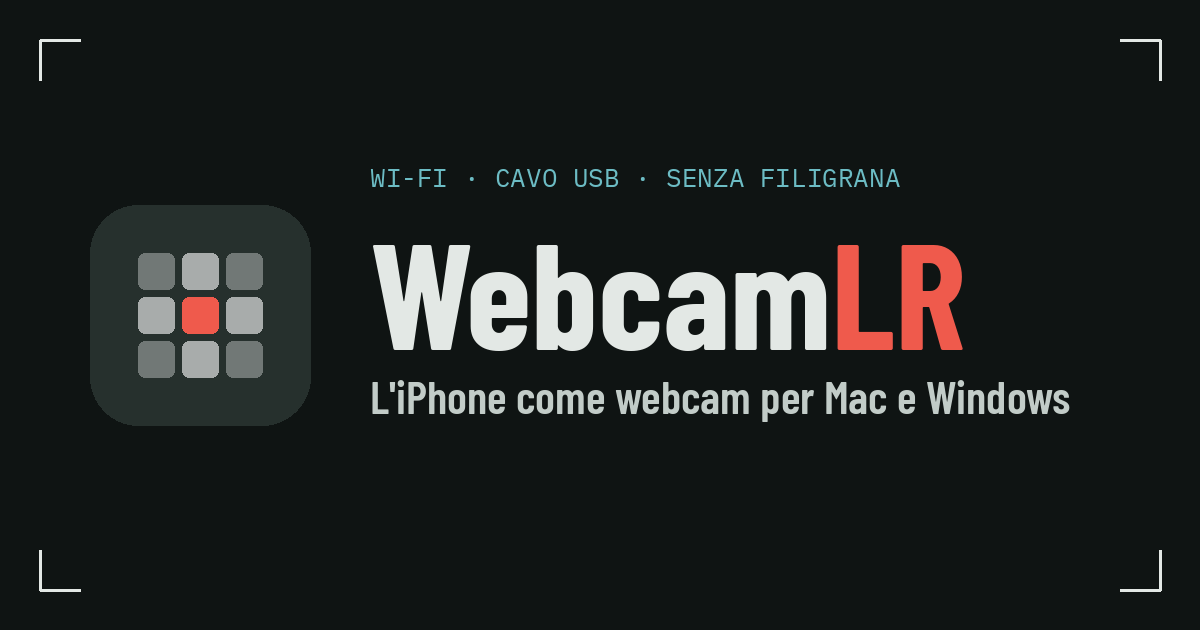
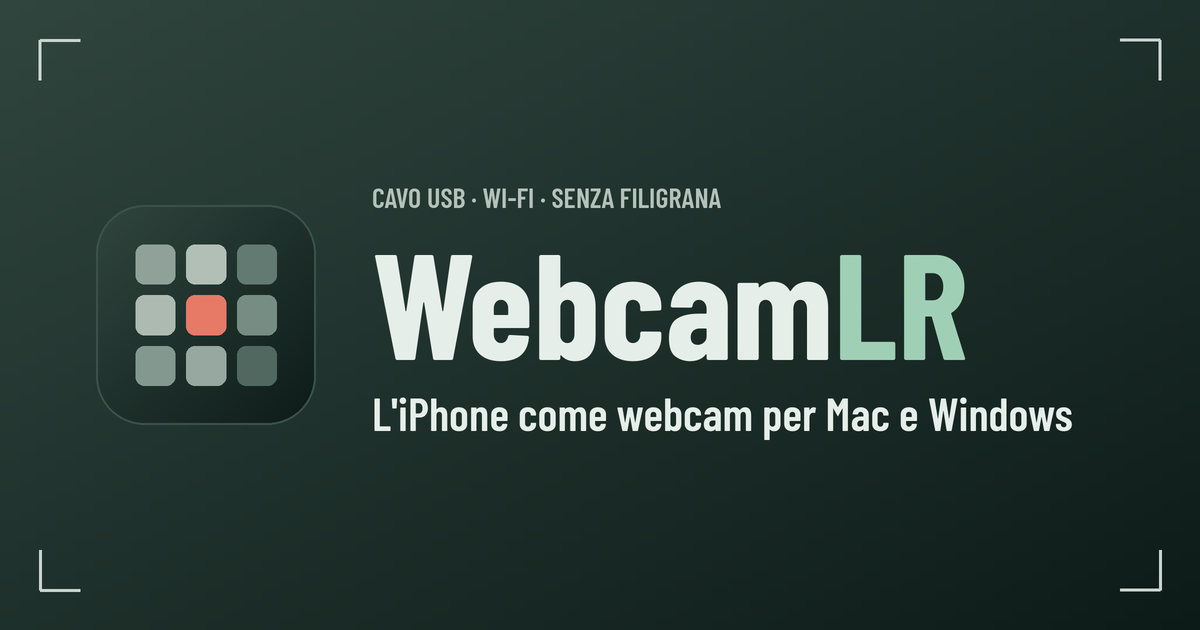
Sito: anteprima per i link e icona con l'identità nuova
Strumenti/anteprima_sito.py (Pillow) disegna anteprima.png 1200×630 e apple-touch-icon.png dal logo, con la sfumatura verde e «LR» nell'accento salvia, nei caratteri Barlow di Sito/caratteri.

Claude-Session: https://claude.ai/code/session_01F5o24Mc7i8YKa5yGj1APHx

diff --git a/Strumenti/anteprima_sito.py b/Strumenti/anteprima_sito.py
@@ -1,0 +1,88 @@
+#!/usr/bin/env python3
+"""Genera Sito/anteprima.png (Open Graph, 1200×630) e Sito/apple-touch-icon.png (180×180) con l'identità di LR Apps.
+
+Fondo con la sfumatura del logo (#30453E → #0D1B18), logo a griglia 3×3 con il centro corallo, «Webcam» quasi bianco e
+«LR» nell'accento salvia, come MarchioWebcamLR in Stile. Caratteri da Sito/caratteri (Barlow, licenza OFL).
+Uso: python3 Strumenti/anteprima_sito.py (serve Pillow).
+"""
+from pathlib import Path
+
+from PIL import Image, ImageDraw, ImageFont
+
+RADICE = Path(__file__).resolve().parent.parent
+SITO = RADICE / "Sito"
+CARATTERI = SITO / "caratteri"
+
+CHIARO = (0x30, 0x45, 0x3E)
+SCURO = (0x0D, 0x1B, 0x18)
+TESTO = (0xE6, 0xEE, 0xEA)
+TESTO_TENUE = (0xB4, 0xC2, 0xBB)
+ACCENTO = (0x9F, 0xD0, 0xB6)
+BORDO = (0x3A, 0x52, 0x4A)
+CELLE = [
+    [(0x8F, 0xA1, 0x99), (0xB2, 0xBF, 0xB7), (0x62, 0x7A, 0x71)],
+    [(0xAC, 0xBA, 0xB2), (0xE6, 0x7A, 0x67), (0x76, 0x8D, 0x84)],
+    [(0x83, 0x98, 0x8F), (0x96, 0xA8, 0x9F), (0x50, 0x68, 0x5F)],
+]
+S = 2  # sovracampionamento
+
+
+def sfumatura(w: int, h: int) -> Image.Image:
+    """Diagonale dall'angolo in alto a sinistra (chiaro) a quello in basso a destra (scuro)."""
+    piccola = Image.new("RGB", (64, 64))
+    for y in range(64):
+        for x in range(64):
+            t = (x + y) / 126
+            piccola.putpixel((x, y), tuple(round(a + (b - a) * t) for a, b in zip(CHIARO, SCURO)))
+    return piccola.resize((w, h), Image.BICUBIC)
+
+
+def logo(d: ImageDraw.ImageDraw, x: float, y: float, lato: float, fondo: bool) -> None:
+    """Il logo in unità di 100 (come Sito/logo.svg), con l'angolo in alto a sinistra in (x, y)."""
+    u = lato / 100
+    if fondo:
+        d.rounded_rectangle([x, y, x + lato, y + lato], radius=22 * u, fill=SCURO + (90,), outline=BORDO, width=max(1, round(u)))
+    for r, riga in enumerate(CELLE):
+        for c, colore in enumerate(riga):
+            cx, cy = x + (18 + 23 * c) * u, y + (18 + 23 * r) * u
+            d.rounded_rectangle([cx, cy, cx + 18 * u, cy + 18 * u], radius=4 * u, fill=colore)
+
+
+def anteprima() -> None:
+    w, h = 1200 * S, 630 * S
+    im = sfumatura(w, h).convert("RGBA")
+    d = ImageDraw.Draw(im, "RGBA")
+    # Gli angoli del mirino
+    m, l, sp = 40 * S, 40 * S, 3 * S
+    for (ax, ay, dx, dy) in [(m, m, 1, 1), (w - m, m, -1, 1), (m, h - m, 1, -1), (w - m, h - m, -1, -1)]:
+        d.line([(ax, ay + dy * l), (ax, ay), (ax + dx * l, ay)], fill=(0xC9, 0xD5, 0xCF), width=sp)
+    # Il riquadro del logo con la sua sfumatura, come Sito/logo.svg, e un bordo leggero.
+    lx, ly, ll = 96 * S, 205 * S, 220 * S
+    maschera = Image.new("L", (ll, ll), 0)
+    ImageDraw.Draw(maschera).rounded_rectangle([0, 0, ll - 1, ll - 1], radius=round(ll * .22), fill=255)
+    im.paste(sfumatura(ll, ll), (lx, ly), maschera)
+    d.rounded_rectangle([lx, ly, lx + ll - 1, ly + ll - 1], radius=round(ll * .22), outline=BORDO, width=2 * S)
+    logo(d, lx, ly, ll, fondo=False)
+    titolo = ImageFont.truetype(str(CARATTERI / "BarlowCondensed-Bold.ttf"), 150 * S)
+    sotto = ImageFont.truetype(str(CARATTERI / "BarlowCondensed-SemiBold.ttf"), 46 * S)
+    occhiello = ImageFont.truetype(str(CARATTERI / "BarlowCondensed-SemiBold.ttf"), 28 * S)
+    x = 372 * S
+    d.text((x, 180 * S), "CAVO USB · WI-FI · SENZA FILIGRANA", font=occhiello, fill=TESTO_TENUE)
+    d.text((x, 210 * S), "Webcam", font=titolo, fill=TESTO)
+    d.text((x + d.textlength("Webcam", font=titolo), 210 * S), "LR", font=titolo, fill=ACCENTO)
+    d.text((x, 385 * S), "L'iPhone come webcam per Mac e Windows", font=sotto, fill=TESTO)
+    im.convert("RGB").resize((1200, 630), Image.LANCZOS).save(SITO / "anteprima.png", optimize=True)
+
+
+def icona() -> None:
+    """Icona quadrata piena, come quella dell'iPhone: gli angoli li arrotonda iOS."""
+    lato = 180 * 4
+    im = sfumatura(lato, lato).convert("RGBA")
+    logo(ImageDraw.Draw(im, "RGBA"), 0, 0, lato, fondo=False)
+    im.convert("RGB").resize((180, 180), Image.LANCZOS).save(SITO / "apple-touch-icon.png", optimize=True)
+
+
+if __name__ == "__main__":
+    anteprima()
+    icona()
+    print("Scritti Sito/anteprima.png e Sito/apple-touch-icon.png")
